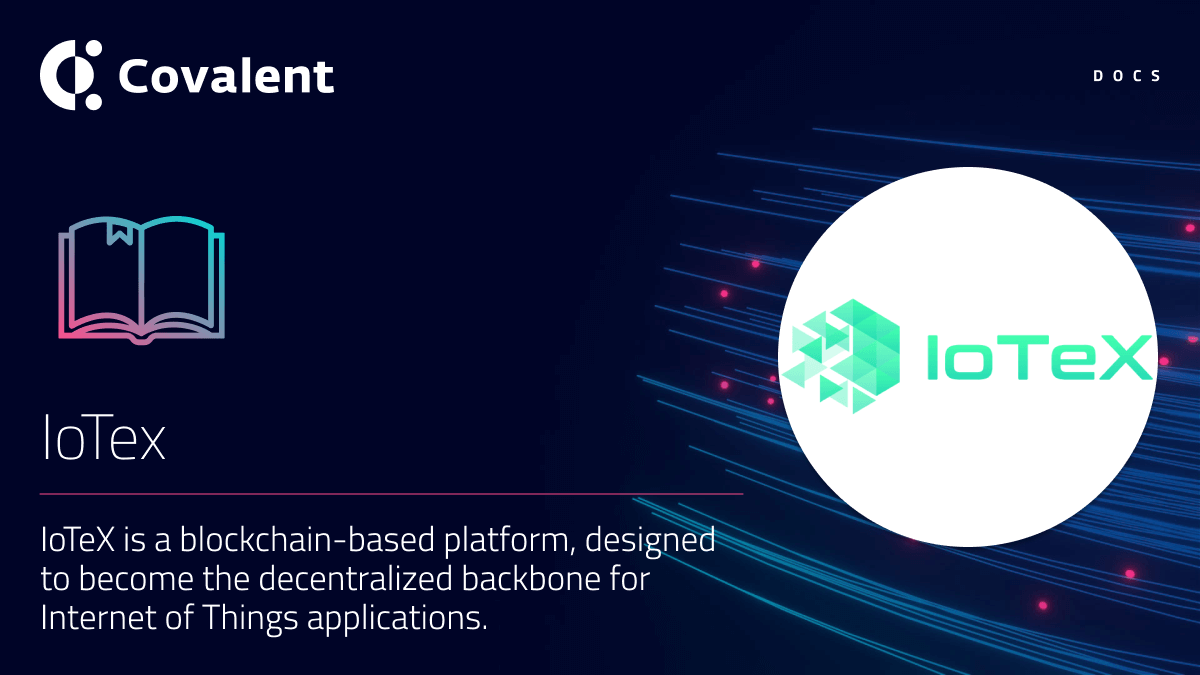
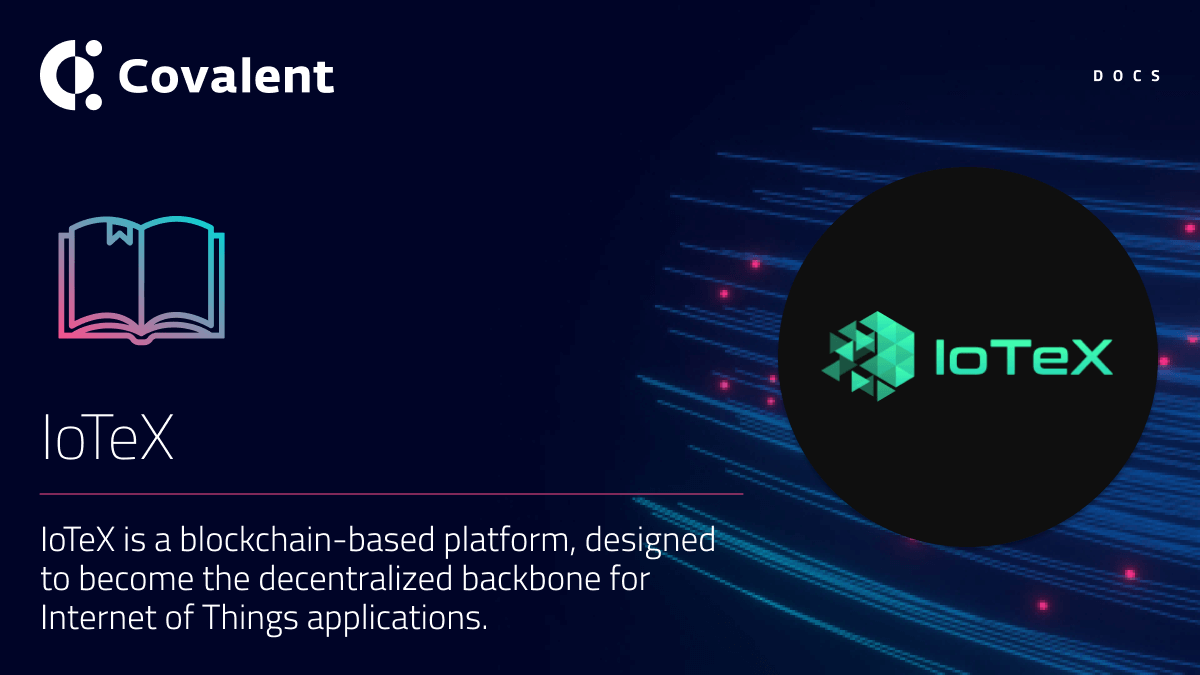
IoTex Name Fix (#151)
* fix: IoTeX name fix. Hide Ronin until QA completed.

* fix: grammer fix

diff --git a/docs/content/networks/iotex.md b/docs/content/networks/iotex.md
@@ -1,21 +1,20 @@
 ---
-title: IoTex Mainnet & Testnet
+title: IoTeX Mainnet & Testnet
 order: 16
 hidden: false
-featuredImage: ./images/IoTex.png
+featuredImage: ./images/IoTeX.png
 description: IoTeX is a blockchain-based platform, designed to become the decentralized backbone for Internet of Things applications.
 ---
 
-![IoTex network banner](./images/IoTex.png)
+![IoTeX network banner](./images/IoTeX.png)
 
 # IoTeX
 
 ## Introduction
 
-[IoTeX](https://iotex.io/) is a blockchain-based platform, designed to become the decentralized backbone for Internet of Things applications. 
+[IoTeX](https://iotube.org/) is a blockchain-based platform, designed to become the decentralized backbone for Internet of Things applications. 
 
 With an ever-growing ecosystem of projects and products from DeFi to Tools to Gaming, IoTeX currently leads the world’s premier industry consortiums and standards bodies such as IEEE, IIC, and more. With numerous contributions to the Blockchain and IoT space, the IoTeX blockchain already powers real devices, including Ucam, an award-winning blockchain-powered cameras presented at the Consumer Electronics Show (CES) and the Pebble geo device. Pebble is a secure device designed by IoTeX and perfect for supply chain optimization in any industry. As a next step, IoTeX is launching "MachineFi" , to power next-gen IoT applications.
-
 
 ### Quick facts
 
@@ -23,10 +22,10 @@ With an ever-growing ecosystem of projects and products from DeFi to Tools to Ga
 
 |Property|Value|
 |---|---|
-|IoTex Mainnet chainId |`4689`|
-|IoTex Testnet chainId |`4690`|
-|IoTex Bridge |https://iotube.org/|
-|IoTex Blockchain Explorer |https://iotexscan.io/|
+|IoTeX Mainnet chainId |`4689`|
+|IoTeX Testnet chainId |`4690`|
+|IoTeX Bridge |https://iotube.org/|
+|IoTeX Blockchain Explorer |https://iotexscan.io/|
 |Block time |~5 seconds|
 
 </TableWrap>
@@ -36,7 +35,7 @@ With an ever-growing ecosystem of projects and products from DeFi to Tools to Ga
 
 <Aside>
 
-All __Class A__ endpoints are supported for the IoTex mainnet and the testnet. You can query either network via the unified API by changing the `chainId`.
+All __Class A__ endpoints are supported for the IoTeX mainnet and the testnet. You can query either network via the unified API by changing the `chainId`.
 
 </Aside>
 

diff --git a/docs/content/networks/index.md b/docs/content/networks/index.md
@@ -34,7 +34,6 @@ We currently support the following networks:
 | [Moonriver](/networks/moonriver)         | `1285` |
 | [Klaytn](/networks/klaytn)               | `8217` |
 | [HECO](/networks/heco)               | `128` |
-| [Axie/Ronin](/networks/ronin)               | `2020` |
 | [IoTex](/networks/iotex)               | `4789` |
 
 </TableWrap>
@@ -58,7 +57,7 @@ We currently support the following networks:
 | [Klaytn](/networks/klaytn)                   | `1001`     |
 | [HECO](/networks/heco)               | `256` |
 | [Polyjuice](/networks/polyjuice)               | `71393` |
-| [IoTex](/networks/iotex)               | `4790` |
+| [IoTeX](/networks/iotex)               | `4790` |
 
 </TableWrap>
 

diff --git a/docs/content/networks/ronin.md b/docs/content/networks/ronin.md
@@ -1,7 +1,7 @@
 ---
 title: Ronin Mainnet
 order: 14
-hidden: false
+hidden: true
 featuredImage: ./images/Ronin.png
 description: Ronin is an Ethereum-linked sidechain made specifically for Axie Infinity. A Ronin was a samurai without a master in feudal Japan and Ronin represents the Axie desire to take the destiny of our product into our own hands.
 ---
